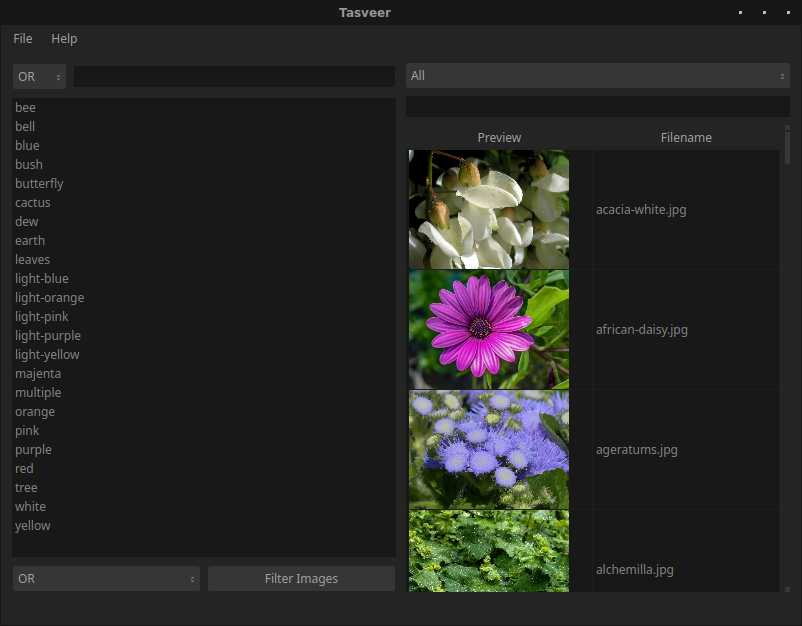
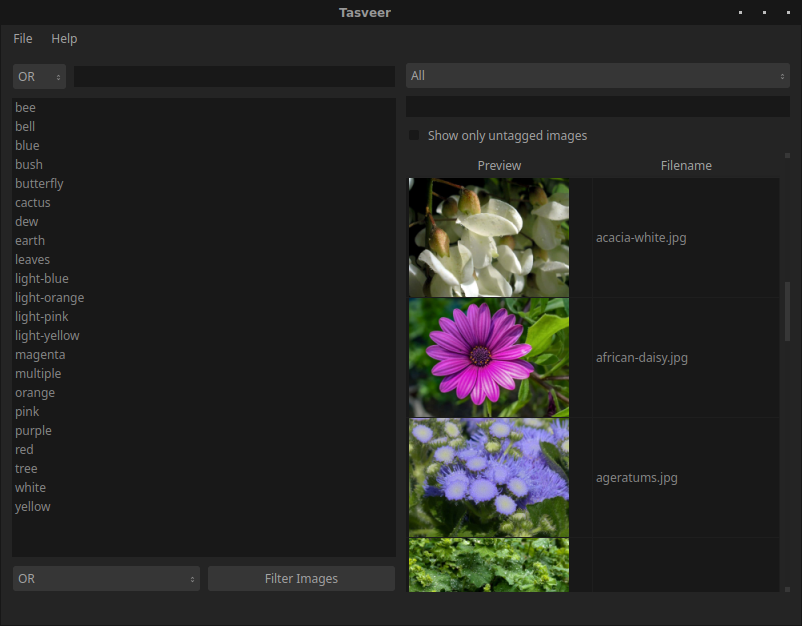
Add untagged filtering and fix directory filtering

diff --git a/src/mainwindow.cpp b/src/mainwindow.cpp
@@ -33,6 +33,10 @@ MainWindow::MainWindow(QWidget* parent)
                      &QPushButton::released,
                      this,
                      &MainWindow::filterImages);
+    QObject::connect(ui->showUntaggedCheckbox,
+                     &QCheckBox::toggled,
+                     this,
+                     &MainWindow::filterImages);
     QObject::connect(ui->actionAddDirectory,
                      &QAction::triggered,
                      this,
@@ -107,6 +111,10 @@ MainWindow::MainWindow(QWidget* parent)
     ui->tagsList->setDragEnabled(true);
     ui->tagsList->setModel(tagModel);
     query.clear();
+    QObject::connect(ui->tagsList->selectionModel(),
+                     &QItemSelectionModel::selectionChanged,
+                     this,
+                     &MainWindow::disableUntaggedCheckbox);
 
     // Directories
     query = dbMan.getAllDirs();
@@ -129,6 +137,13 @@ MainWindow::MainWindow(QWidget* parent)
                      &QShortcut::activated,
                      this,
                      &MainWindow::setImageBoxFocus);
+
+    auto untaggedToggleShortcut =
+      new QShortcut(QKeySequence(tr("Ctrl+U", "Toggle|Untagged check")), this);
+    QObject::connect(untaggedToggleShortcut,
+                     &QShortcut::activated,
+                     this,
+                     &MainWindow::toggleUntaggedCheckbox);
 }
 
 MainWindow::~MainWindow()
@@ -202,7 +217,9 @@ MainWindow::filterImages()
         QString tagId = tagModel->getId(index);
         tagIds += tagId;
     }
-    QSqlQuery query = dbMan.filterImages(tagIds, method, dirFilter, nameFilter);
+    bool untagged = ui->showUntaggedCheckbox->isChecked();
+    QSqlQuery query =
+      dbMan.filterImages(tagIds, method, dirFilter, nameFilter, untagged);
     imageModel->setQuery(query);
 }
 
@@ -222,7 +239,8 @@ MainWindow::showAddDirDialog()
       QFileDialog::getExistingDirectory(this, "Open Directory", "/home", flags);
     QProgressDialog progress("Adding directory", "Cancel", 0, 100, this);
     progress.setWindowModality(Qt::WindowModal);
-    if (dbMan.addDirectory(progress, dir)) {
+    if (dbMan.addDirectory(progress, dir) &&
+        (ui->dirSelectBox->findText(dir) >= 0)) {
         ui->dirSelectBox->addItem(dir);
     }
     filterImages();
@@ -316,6 +334,20 @@ MainWindow::setImageBoxFocus()
     ui->imageSearchBox->setFocus();
 }
 
+void
+MainWindow::toggleUntaggedCheckbox()
+{
+    ui->showUntaggedCheckbox->toggle();
+}
+
+void
+MainWindow::disableUntaggedCheckbox()
+{
+    auto selected = ui->tagsList->selectionModel()->selectedIndexes();
+    // Only allow checking if no tags are selected
+    ui->showUntaggedCheckbox->setCheckable(selected.empty());
+}
+
 bool
 MainWindow::eventFilter(QObject* watched, QEvent* event)
 {
@@ -327,17 +359,16 @@ MainWindow::eventFilter(QObject* watched, QEvent* event)
             return result;
         }
         filterTags(ui->methodBox->currentText());
-    }
-    if (watched == ui->imageSearchBox && event->type() == QEvent::KeyRelease) {
+    } else if (watched == ui->imageSearchBox &&
+               event->type() == QEvent::KeyRelease) {
         QKeyEvent* keyEvent = static_cast<QKeyEvent*>(event);
         if (keyEvent->key() == Qt::Key_Escape) {
             ui->imageSearchBox->clearFocus();
             return result;
         }
         filterImages();
-    }
-    if (enterTagsDialog && watched == enterTagsUi.enterTagsBox &&
-        event->type() == QEvent::KeyRelease) {
+    } else if (enterTagsDialog && watched == enterTagsUi.enterTagsBox &&
+               event->type() == QEvent::KeyRelease) {
         QKeyEvent* keyEvent = static_cast<QKeyEvent*>(event);
         if (keyEvent->key() != Qt::Key_Semicolon) {
             return result;

diff --git a/src/databasemanager.cpp b/src/databasemanager.cpp
@@ -162,7 +162,8 @@ QSqlQuery
 DatabaseManager::filterImages(const QStringList& tagIds,
                               const QString& method,
                               QString& dir,
-                              QString& name)
+                              QString& name,
+                              bool untagged)
 {
     QSqlDatabase db = QSqlDatabase::database(CONNECTION);
     QSqlQuery query(db);
@@ -178,21 +179,27 @@ DatabaseManager::filterImages(const QStringList& tagIds,
     }
 
     int count = tagIds.size();
-    if (count == 0) {
+    if (!count) {
         queryString = "SELECT * FROM images";
-        if (nameGiven || dirGiven) {
+        if (nameGiven || dirGiven || untagged) {
             queryString += " WHERE ";
         }
+        if (untagged) {
+            queryString += " image_id NOT IN "
+                           "(SELECT image_id FROM tag_image_map)";
+        }
         if (dirGiven) {
-            queryString += "dir LIKE '%' || (?) || '%'";
+            if (untagged) {
+                queryString += " AND ";
+            }
+            queryString += "dir = (?)";
         }
         if (nameGiven) {
-            if (dirGiven)
+            if (dirGiven) {
                 queryString += " AND ";
-            queryString += "name LIKE '%' || (?) || '%'";
-        }
-        if (nameGiven || dirGiven) {
-            queryString += " ESCAPE '@'";
+            }
+            queryString += "name LIKE '%' || (?) || '%' "
+                           "ESCAPE '@'";
         }
         queryString += " ORDER BY name";
         query.prepare(queryString);
@@ -215,13 +222,12 @@ DatabaseManager::filterImages(const QStringList& tagIds,
         }
         queryString += ") ";
         if (dirGiven) {
-            queryString += "AND i.dir LIKE '%' || (?) || '%' ";
+            queryString += "AND i.dir = (?) ";
         }
         if (nameGiven) {
-            queryString += "AND i.name LIKE '%' || (?) || '%' ";
-        }
-        if (nameGiven || dirGiven) {
-            queryString += "ESCAPE '@' ";
+            queryString += "AND i.name "
+                           "LIKE '%' || (?) || '%' "
+                           "ESCAPE '@' ";
         }
         queryString += "ORDER BY i.name";
         query.prepare(queryString);
@@ -249,13 +255,12 @@ DatabaseManager::filterImages(const QStringList& tagIds,
                        "FROM cte GROUP BY tim_ii "
                        "HAVING count() = (?) ";
         if (dirGiven) {
-            queryString += "AND i_d LIKE '%' || (?) || '%' ";
+            queryString += "AND i_d = (?) ";
         }
         if (nameGiven) {
-            queryString += "AND i_n LIKE '%' || (?) || '%' ";
-        }
-        if (nameGiven || dirGiven) {
-            queryString += "ESCAPE '@' ";
+            queryString += "AND i_n "
+                           "LIKE '%' || (?) || '%' "
+                           "ESCAPE '@' ";
         }
         queryString += "ORDER BY i_n";
         query.prepare(queryString);
@@ -272,6 +277,7 @@ DatabaseManager::filterImages(const QStringList& tagIds,
         }
     }
     if (!query.exec()) {
+        qDebug() << query.executedQuery();
         qDebug() << "filterImagesError: " << query.lastError().text();
     }
     return query;

diff --git a/include/databasemanager.h b/include/databasemanager.h
@@ -24,7 +24,8 @@ class DatabaseManager
     QSqlQuery filterImages(const QStringList& tagIds,
                            const QString& method,
                            QString& dir,
-                           QString& name);
+                           QString& name,
+                           bool untagged);
     QSqlQuery filterTags(const QString& method, QString& text);
     bool addDirectory(QProgressDialog& progress, const QString& dirPath);
     void addImage(const QString& path);

diff --git a/include/mainwindow.h b/include/mainwindow.h
@@ -70,5 +70,7 @@ class MainWindow : public QMainWindow
     void showShowTagsDialog();
     void setTagBoxFocus();
     void setImageBoxFocus();
+    void toggleUntaggedCheckbox();
+    void disableUntaggedCheckbox();
 };
 #endif // MAINWINDOW_H

diff --git a/README.md b/README.md
@@ -78,6 +78,12 @@ available: `OR` and `AND`.
 - Images can be filtered by the directory they're in by selecting directories
 in the dropdown menu above the images section.
 
+- `Show untagged images only` checkbox can be checked to show only images
+without any linked tags. If any tag is selected in the tag list, this checkbox
+is disabled. As a result, this can only be used without any tags selected
+(because if you have a tag already selected, it means you are about to/already
+have images filtered by tags, making this useless).
+
 - Tags linked to an image can be viewed by right clicking an image and
 selecting `Show Tags`. A tag can be removed from an image by clicking on its
 button and then confirming. The tags will not get removed unless you press
@@ -103,6 +109,7 @@ mouse button.
 - `Ctrl+T`: Open `Add tags` menu.
 - `Ctrl+S`: Set focus to tag filter search box.
 - `Ctrl+Z`: Set focus to image filter search box.
+- `Ctrl+U`: Toggle `Show only untagged images` checkbox, if enabled.
 - `Ctrl+Q`: Quit.
 
 ## Image formats
